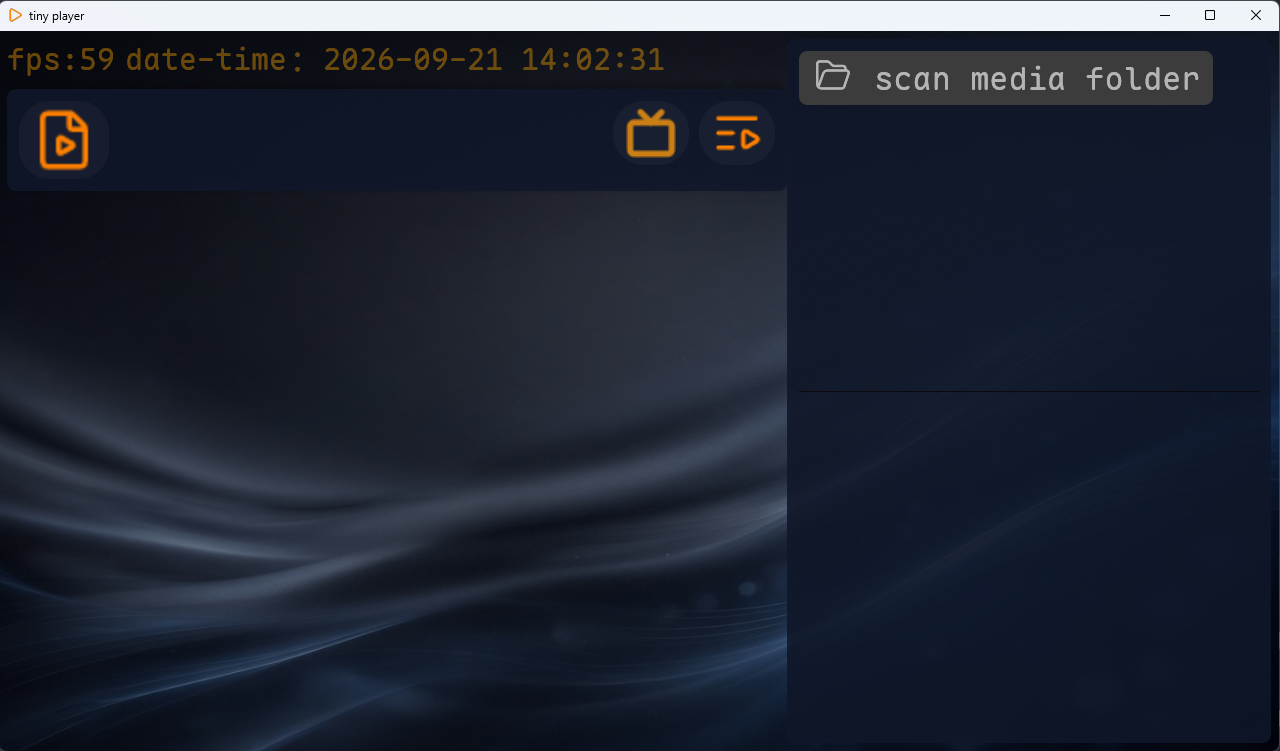
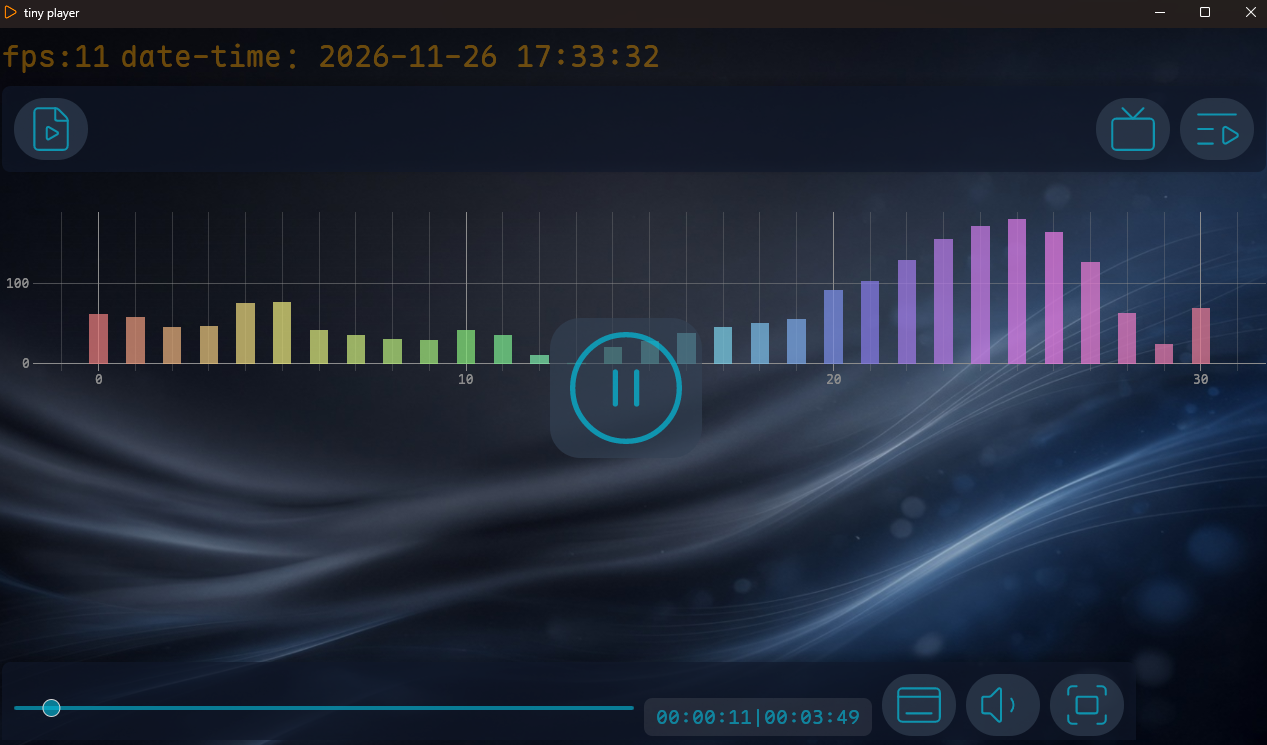
Updating screenshot.

diff --git a/readme.md b/readme.md
@@ -62,7 +62,7 @@ If you are using a laptop and experience low frame rates:
 
 ---
 
-## Real-Time Caption
+## Real-Time Caption (Cuda Required)
 
 Real-time caption function is based on project [whisper.cpp](https://github.com/ggml-org/whisper.cpp).
 The behavior in dialog scenario is impressive yet the accuracy would decrease in hybrid and musical scenarios.
